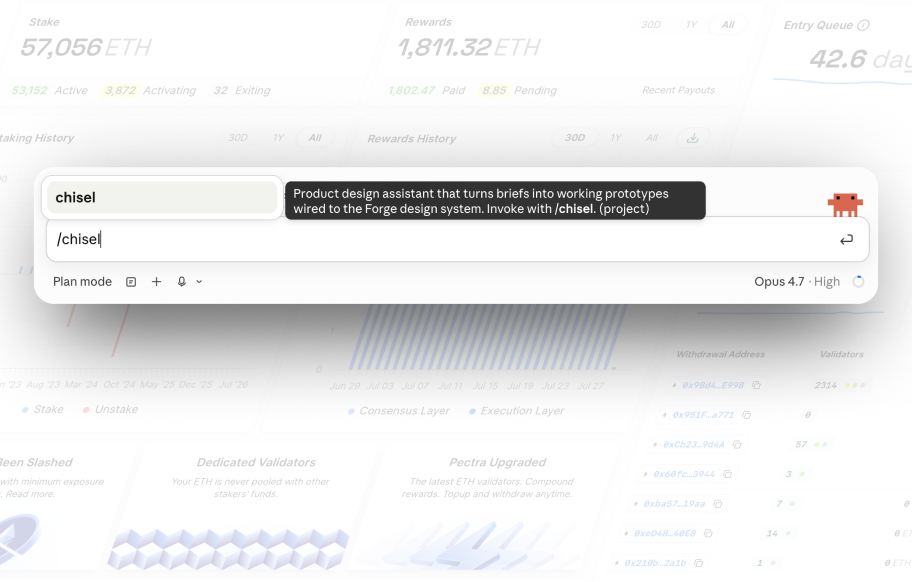
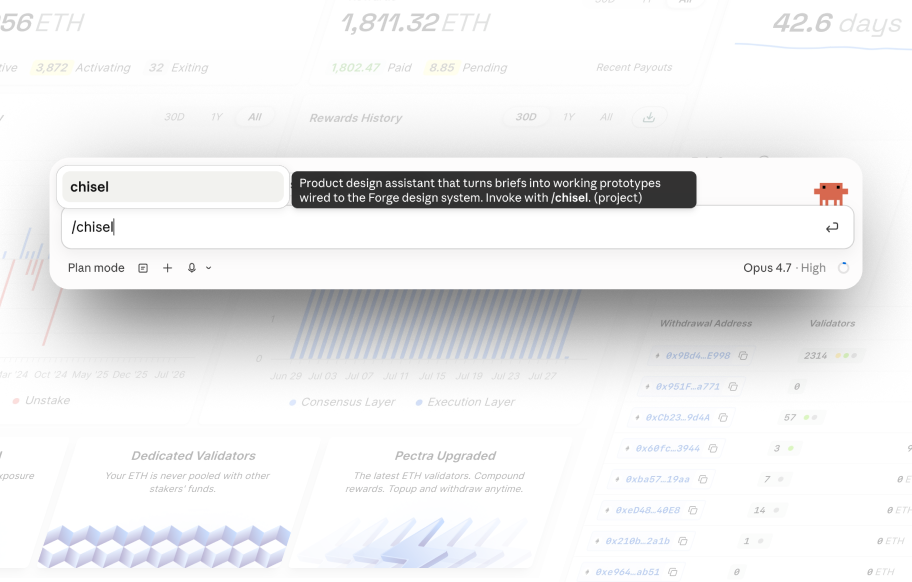
more featured thumbnail updates

diff --git a/src/data/projects.ts b/src/data/projects.ts
@@ -89,6 +89,70 @@ export type Project = {
 
 export const projects: Project[] = [
   {
+    slug: "figment-dapp",
+    title: "Figment dApp",
+    role: "Product Design & Growth",
+    thumbnail: "projects/figment-dapp/thumbnail.png",
+    tags: ["react", "web3", "design"],
+    summary: "A consumer swing for a B2B crypto infrastructure company",
+    content: [
+      {
+        type: "text",
+        html: "While leading Product Design at Figment, a proof-of-stake infrastructure company serving mostly large financial institutions, I redesigned a nascent and neglected consumer dApp that had been hiding in the Ledger Wallet marketplace. with the goal of opening <strong>Figment's institutional-grade infrastructure to the wider audience of self-custody crypto holders</strong>."
+      },
+      { 
+        type: "video", 
+        src: "/projects/figment-dapp/eth-flow.mp4", 
+        alt: "Ethereum staking flow in Ledger dApp", 
+        autoplay: true, 
+      },
+      { 
+        type: "text",
+        html: "While there were competitor dApps already claiming this territory, we knew the amount of unstated Ethereum held on Ledger devices was massive. It was worth the swing. A team of 2 (myself and a PM) took a scrappy approach to the project. We stripped away every uneccessary piece of copy and UI and scrubbed the dApp of any industry jargon. The results surprised us."
+      },
+      {
+        type: "image",
+        src: "/projects/figment-dapp/dashboard.png"
+      },
+      {
+        type: "grid",
+        items: [
+          { src: "/projects/figment-dapp/widget/sol.png", alt: "Solana staking widget" },
+          { src: "/projects/figment-dapp/widget/avax.png", alt: "Avalanche staking widget" },
+          { src: "/projects/figment-dapp/widget/near.png", alt: "NEAR staking widget" },
+          { src: "/projects/figment-dapp/widget/eth.png", alt: "ETH staking widget" },
+        ],
+      },
+      { 
+        type: "text",
+        html: "What started as a side quest quickly turned into a meaningful line of business for Figment. Pre-redesign the amount of staked ETH was near zero. <strong>After a year in the Ledger Wallet marketplace, that number had grown to over $500,000,000</strong>."
+      },
+      {
+        type: "text",
+        html: `
+        <strong>Outcomes</strong>
+          <ol>
+            <li>Net new assets under stake of over $500m</li>
+            <li>A product led growth discipline that didn't exist in Figment's highly b2b sales-driven product team.</li>
+            <li>Adoption of Figment's UI component library beyond its institutional customer dashboards was a driver of system improvements and org-wide support.</li>
+          </ol>
+        `,
+      },
+      // {
+      //   type: "image",
+      //   src: "/projects/figment-dapp/sol.png"
+      // },
+      {
+        type: "image",
+        src: "/projects/figment-dapp/eth-stake.png"
+      },
+      {
+        type: "image",
+        src: "/projects/figment-dapp/eth-why-stake.png"
+      },
+    ],
+  },
+  {
     slug: "chisel",
     title: "Chisel",
     role: "Design & Engineering",
@@ -154,70 +218,6 @@ export const projects: Project[] = [
             <li>Faster product iteration. Simple edits like copy changes and layout adjustments can be handled by PMs without the unnecessary overhead of Linear tickets, Figma updates, and engineering pipelines.</li>
           </ol>
         `,
-      },
-    ],
-  },
-  {
-    slug: "figment-dapp",
-    title: "Figment dApp",
-    role: "Product Design & Growth",
-    thumbnail: "projects/figment-dapp/thumbnail.png",
-    tags: ["react", "web3", "design"],
-    summary: "A consumer swing for a B2B crypto infrastructure company",
-    content: [
-      {
-        type: "text",
-        html: "While leading Product Design at Figment, a proof-of-stake infrastructure company serving mostly large financial institutions, I redesigned a nascent and neglected consumer dApp that had been hiding in the Ledger Wallet marketplace. with the goal of opening <strong>Figment's institutional-grade infrastructure to the wider audience of self-custody crypto holders</strong>."
-      },
-      { 
-        type: "video", 
-        src: "/projects/figment-dapp/eth-flow.mp4", 
-        alt: "Ethereum staking flow in Ledger dApp", 
-        autoplay: true, 
-      },
-      { 
-        type: "text",
-        html: "While there were competitor dApps already claiming this territory, we knew the amount of unstated Ethereum held on Ledger devices was massive. It was worth the swing. A team of 2 (myself and a PM) took a scrappy approach to the project. We stripped away every uneccessary piece of copy and UI and scrubbed the dApp of any industry jargon. The results surprised us."
-      },
-      {
-        type: "image",
-        src: "/projects/figment-dapp/dashboard.png"
-      },
-      {
-        type: "grid",
-        items: [
-          { src: "/projects/figment-dapp/widget/sol.png", alt: "Solana staking widget" },
-          { src: "/projects/figment-dapp/widget/avax.png", alt: "Avalanche staking widget" },
-          { src: "/projects/figment-dapp/widget/near.png", alt: "NEAR staking widget" },
-          { src: "/projects/figment-dapp/widget/eth.png", alt: "ETH staking widget" },
-        ],
-      },
-      { 
-        type: "text",
-        html: "What started as a side quest quickly turned into a meaningful line of business for Figment. Pre-redesign the amount of staked ETH was near zero. <strong>After a year in the Ledger Wallet marketplace, that number had grown to over $500,000,000</strong>."
-      },
-      {
-        type: "text",
-        html: `
-        <strong>Outcomes</strong>
-          <ol>
-            <li>Net new assets under stake of over $500m</li>
-            <li>A product led growth discipline that didn't exist in Figment's highly b2b sales-driven product team.</li>
-            <li>Adoption of Figment's UI component library beyond its institutional customer dashboards was a driver of system improvements and org-wide support.</li>
-          </ol>
-        `,
-      },
-      // {
-      //   type: "image",
-      //   src: "/projects/figment-dapp/sol.png"
-      // },
-      {
-        type: "image",
-        src: "/projects/figment-dapp/eth-stake.png"
-      },
-      {
-        type: "image",
-        src: "/projects/figment-dapp/eth-why-stake.png"
       },
     ],
   },

diff --git a/src/components/home/FeaturedProjects.tsx b/src/components/home/FeaturedProjects.tsx
@@ -96,8 +96,8 @@ export function FeaturedProjects() {
                     alt=""
                     className={`absolute inset-0 h-full w-full object-cover ${
                       p.comingSoon
-                        ? "opacity-85 saturate-75"
-                        : "transition-transform duration-700 ease-[cubic-bezier(0.05,0,0,1)] group-hover:scale-[1.15]"
+                        ? ""
+                        : "transition-transform duration-700 ease-[cubic-bezier(0.05,0,0,1)] group-hover:scale-[1.05]"
                     }`}
                   />
                 )}
